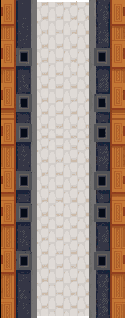
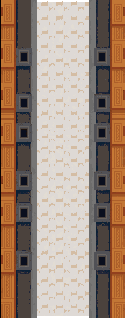
Redraw the battle tower whole — the seam was mine and it was avoidable
Raheem: "there's a slice in the middle of my tower when I gave you perfect
towers." He is right. Row 235 measured a 56.8 row-to-row difference against a
median of 16.8 — 3.4x — exactly where I split it.

WHAT I DID. /image-to-pixelart caps output at 320 in BOTH dimensions. The tower
cut is 229x564, a 1:2.5 strip. I wanted it 186 wide to preserve the x2.6 scale
relationship with the walls, which forces 458 tall, which exceeds the cap, which
forces two calls. The two halves were redrawn INDEPENDENTLY — the model never
sees the other half — so they do not agree at the join. That join is the slice.

WHY IT WAS AVOIDABLE. The cap was real; the 186 was not. Sent whole it comes
back 130x320 in ONE call, and scaling it 1.43 in Phaser restores the exact size
it had (183x455 against 184x457). Upscaling is the direction pixel art
tolerates, so nothing is lost — and it makes the tower's pixels chunkier, which
is the "equally as pixelated" balance Raheem asked for two turns earlier. The
whole-tower route was better on every axis and I banded anyway, to protect a
number I had already decided instead of asking whether that number was worth a
seam.

Result: 128x318, no seam (worst row diff now sits on a cornice, not a join),
zero pale residue, 45 colours, still on the shared palette.

The corner tower IS still a graft — T3's crown onto T3's own base with the middle
storeys removed — which was a deliberate call to avoid a second generation and
[…]

diff --git a/CourtyardV3.js b/CourtyardV3.js
@@ -568,6 +568,8 @@ class CourtyardV3 extends Phaser.Scene {
 
 		// battleTower
 		const battleTower = this.add.image(1224, -57, "tower-battle-v3");
+		battleTower.scaleX = 1.43;
+		battleTower.scaleY = 1.43;
 		battleTower.setOrigin(0, 0);
 		l3_CASTLE.add(battleTower);
 
@@ -649,6 +651,7 @@ class CourtyardV3 extends Phaser.Scene {
 		const sHELF_tower_battle_v3 = this.add.image(3260, 100, "tower-battle-v3");
 		sHELF_tower_battle_v3.setOrigin(0, 0);
 		l3_CASTLE.add(sHELF_tower_battle_v3);
+
 		// L12_FOREST_CANOPY
 		const l12_FOREST_CANOPY = this.add.layer();
 
